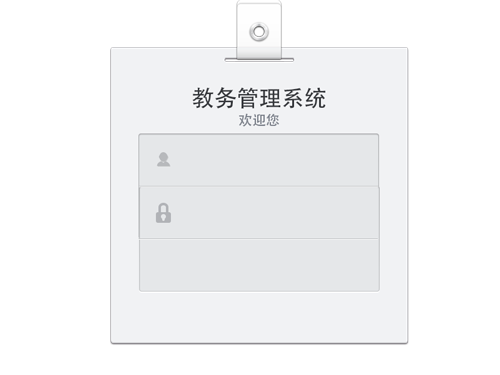
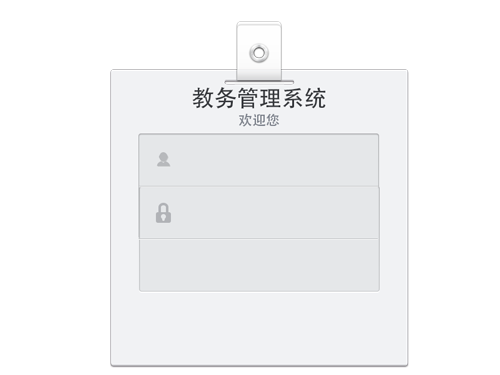
修改文件

diff --git a/WebRoot/css/style.css b/WebRoot/css/style.css
@@ -2,7 +2,7 @@
 div.content {
 	position: absolute;
 	top: 150px;
-	left: 0px;
+	right: 200px;
 	width: 500px;
 	height: 375px;
 	background: url("/EduSystem/images/login-form.png");
@@ -54,4 +54,17 @@ body {
 
 .imgvcodeshow {
 	display: show;
+}
+
+.bottom {
+	bottom: 0px;
+	left: 650px;
+	position: absolute;
+	text-align: center;
+}
+
+h2 {
+	margin-top: 50px;
+	text-align: center;
+	color: #
 }
